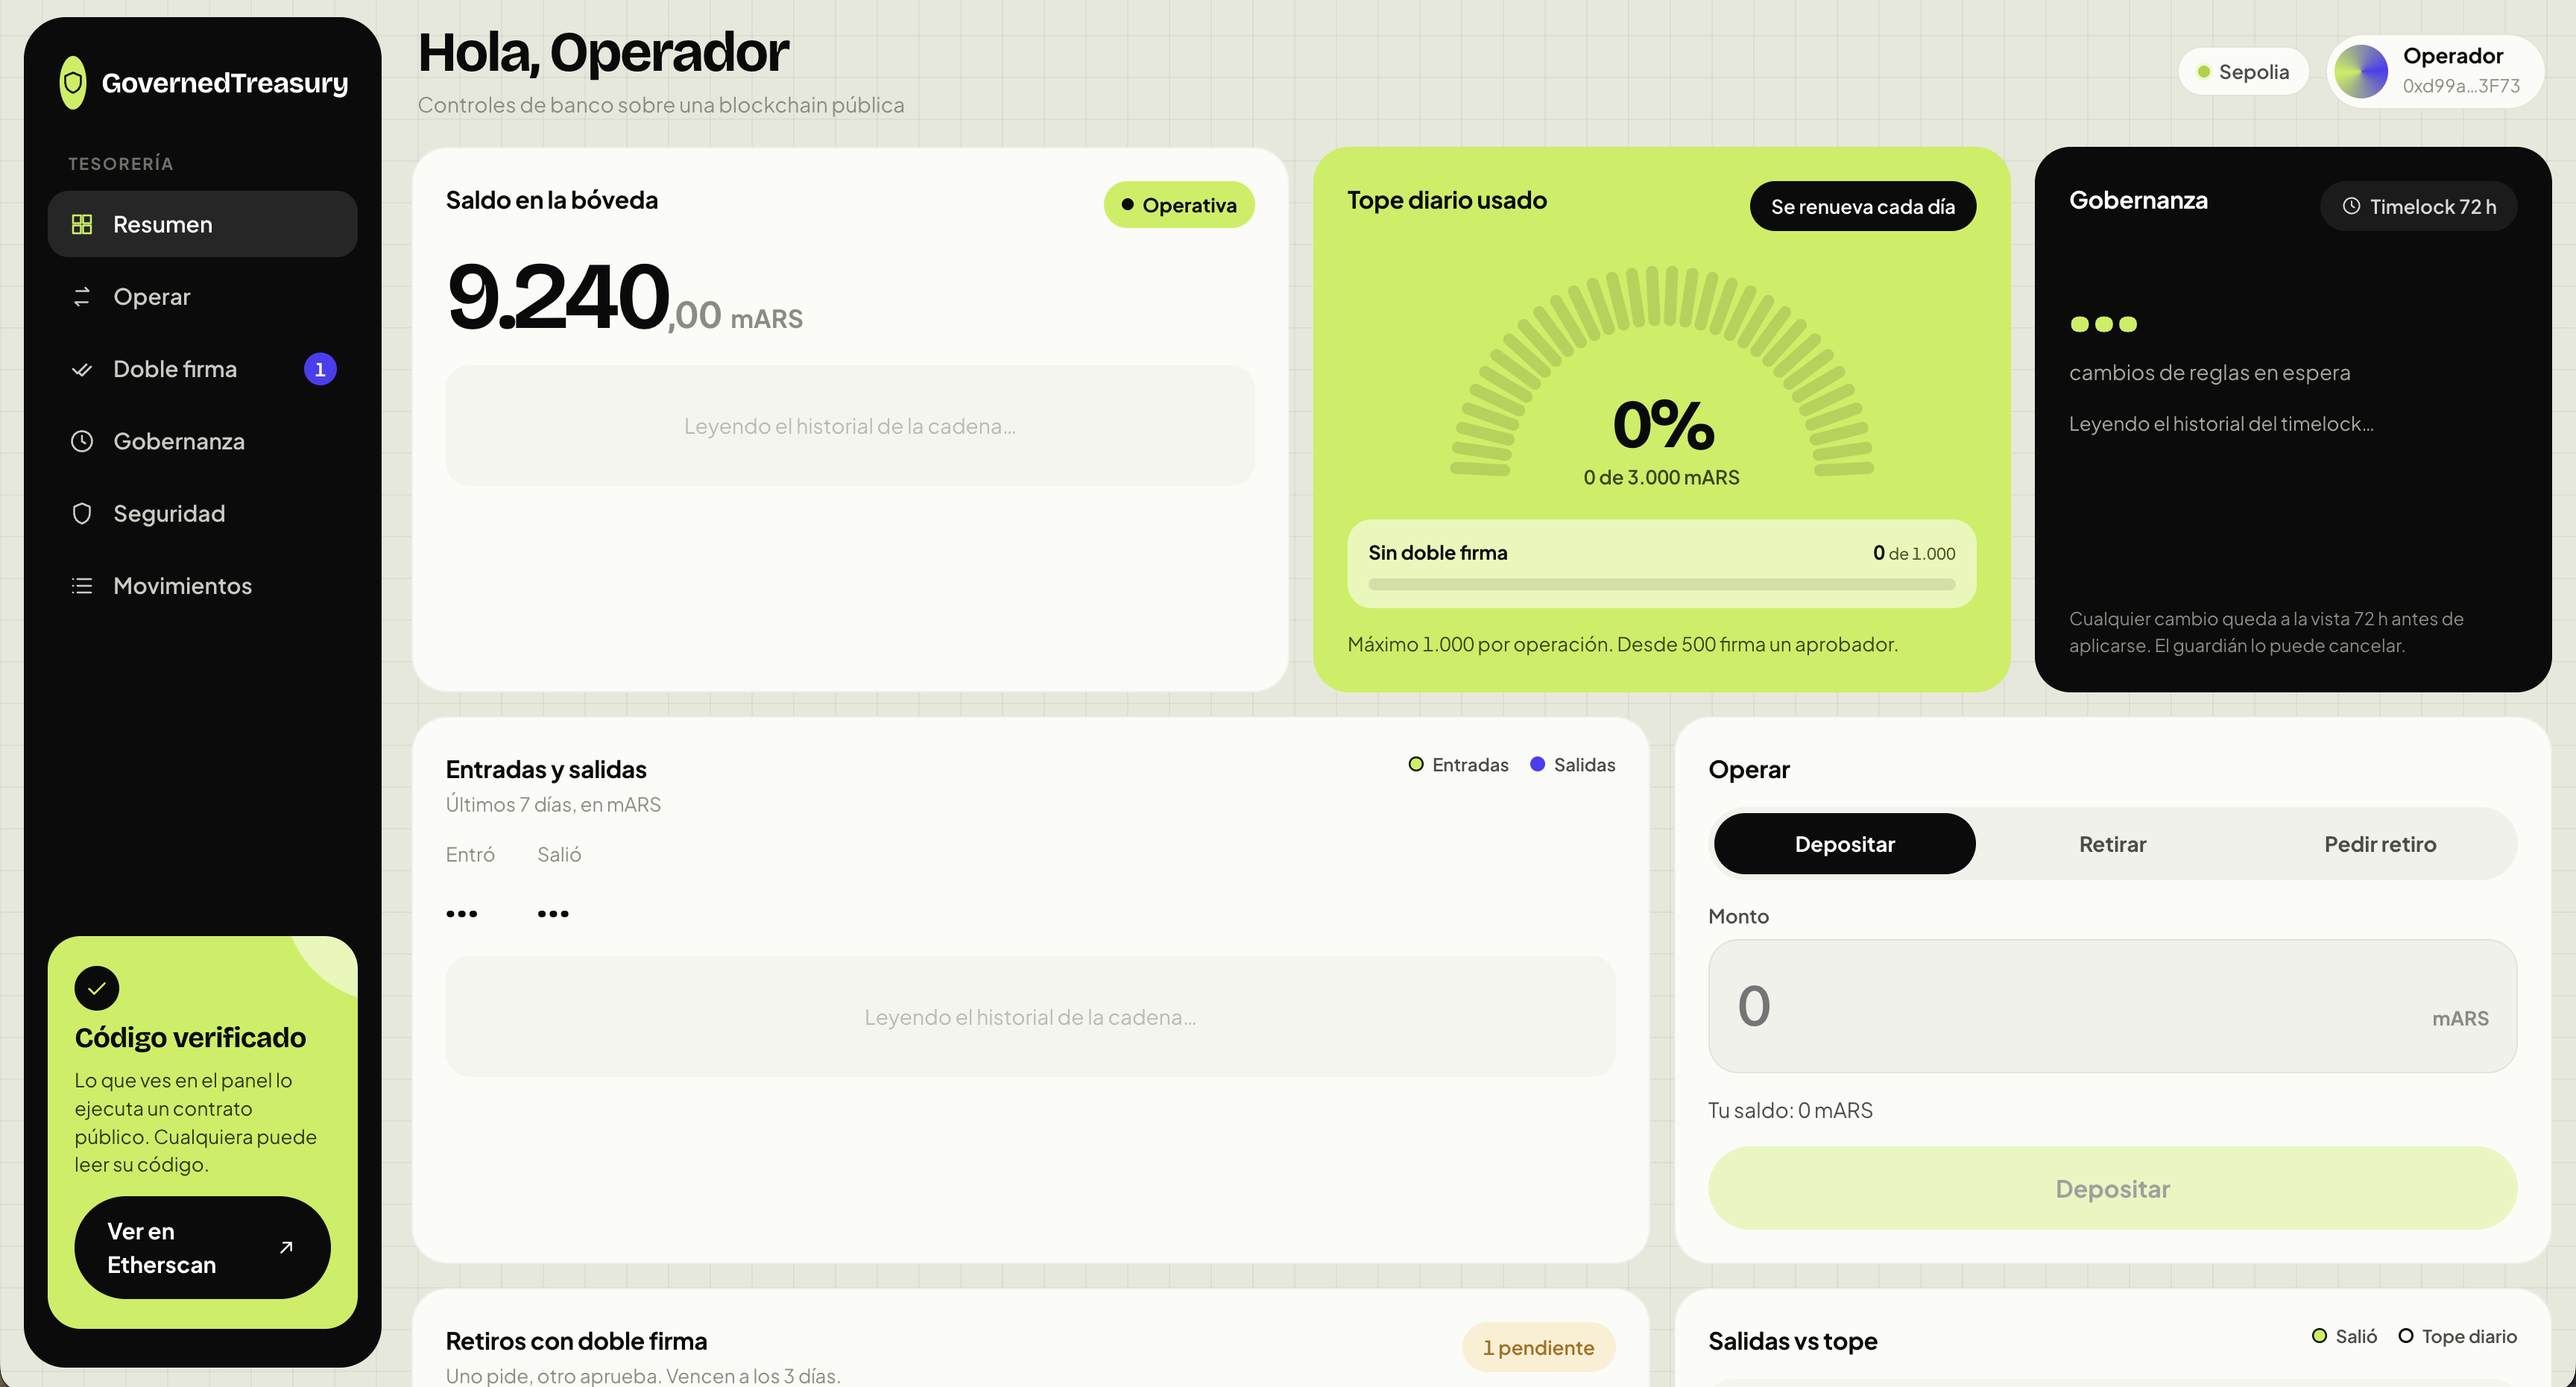
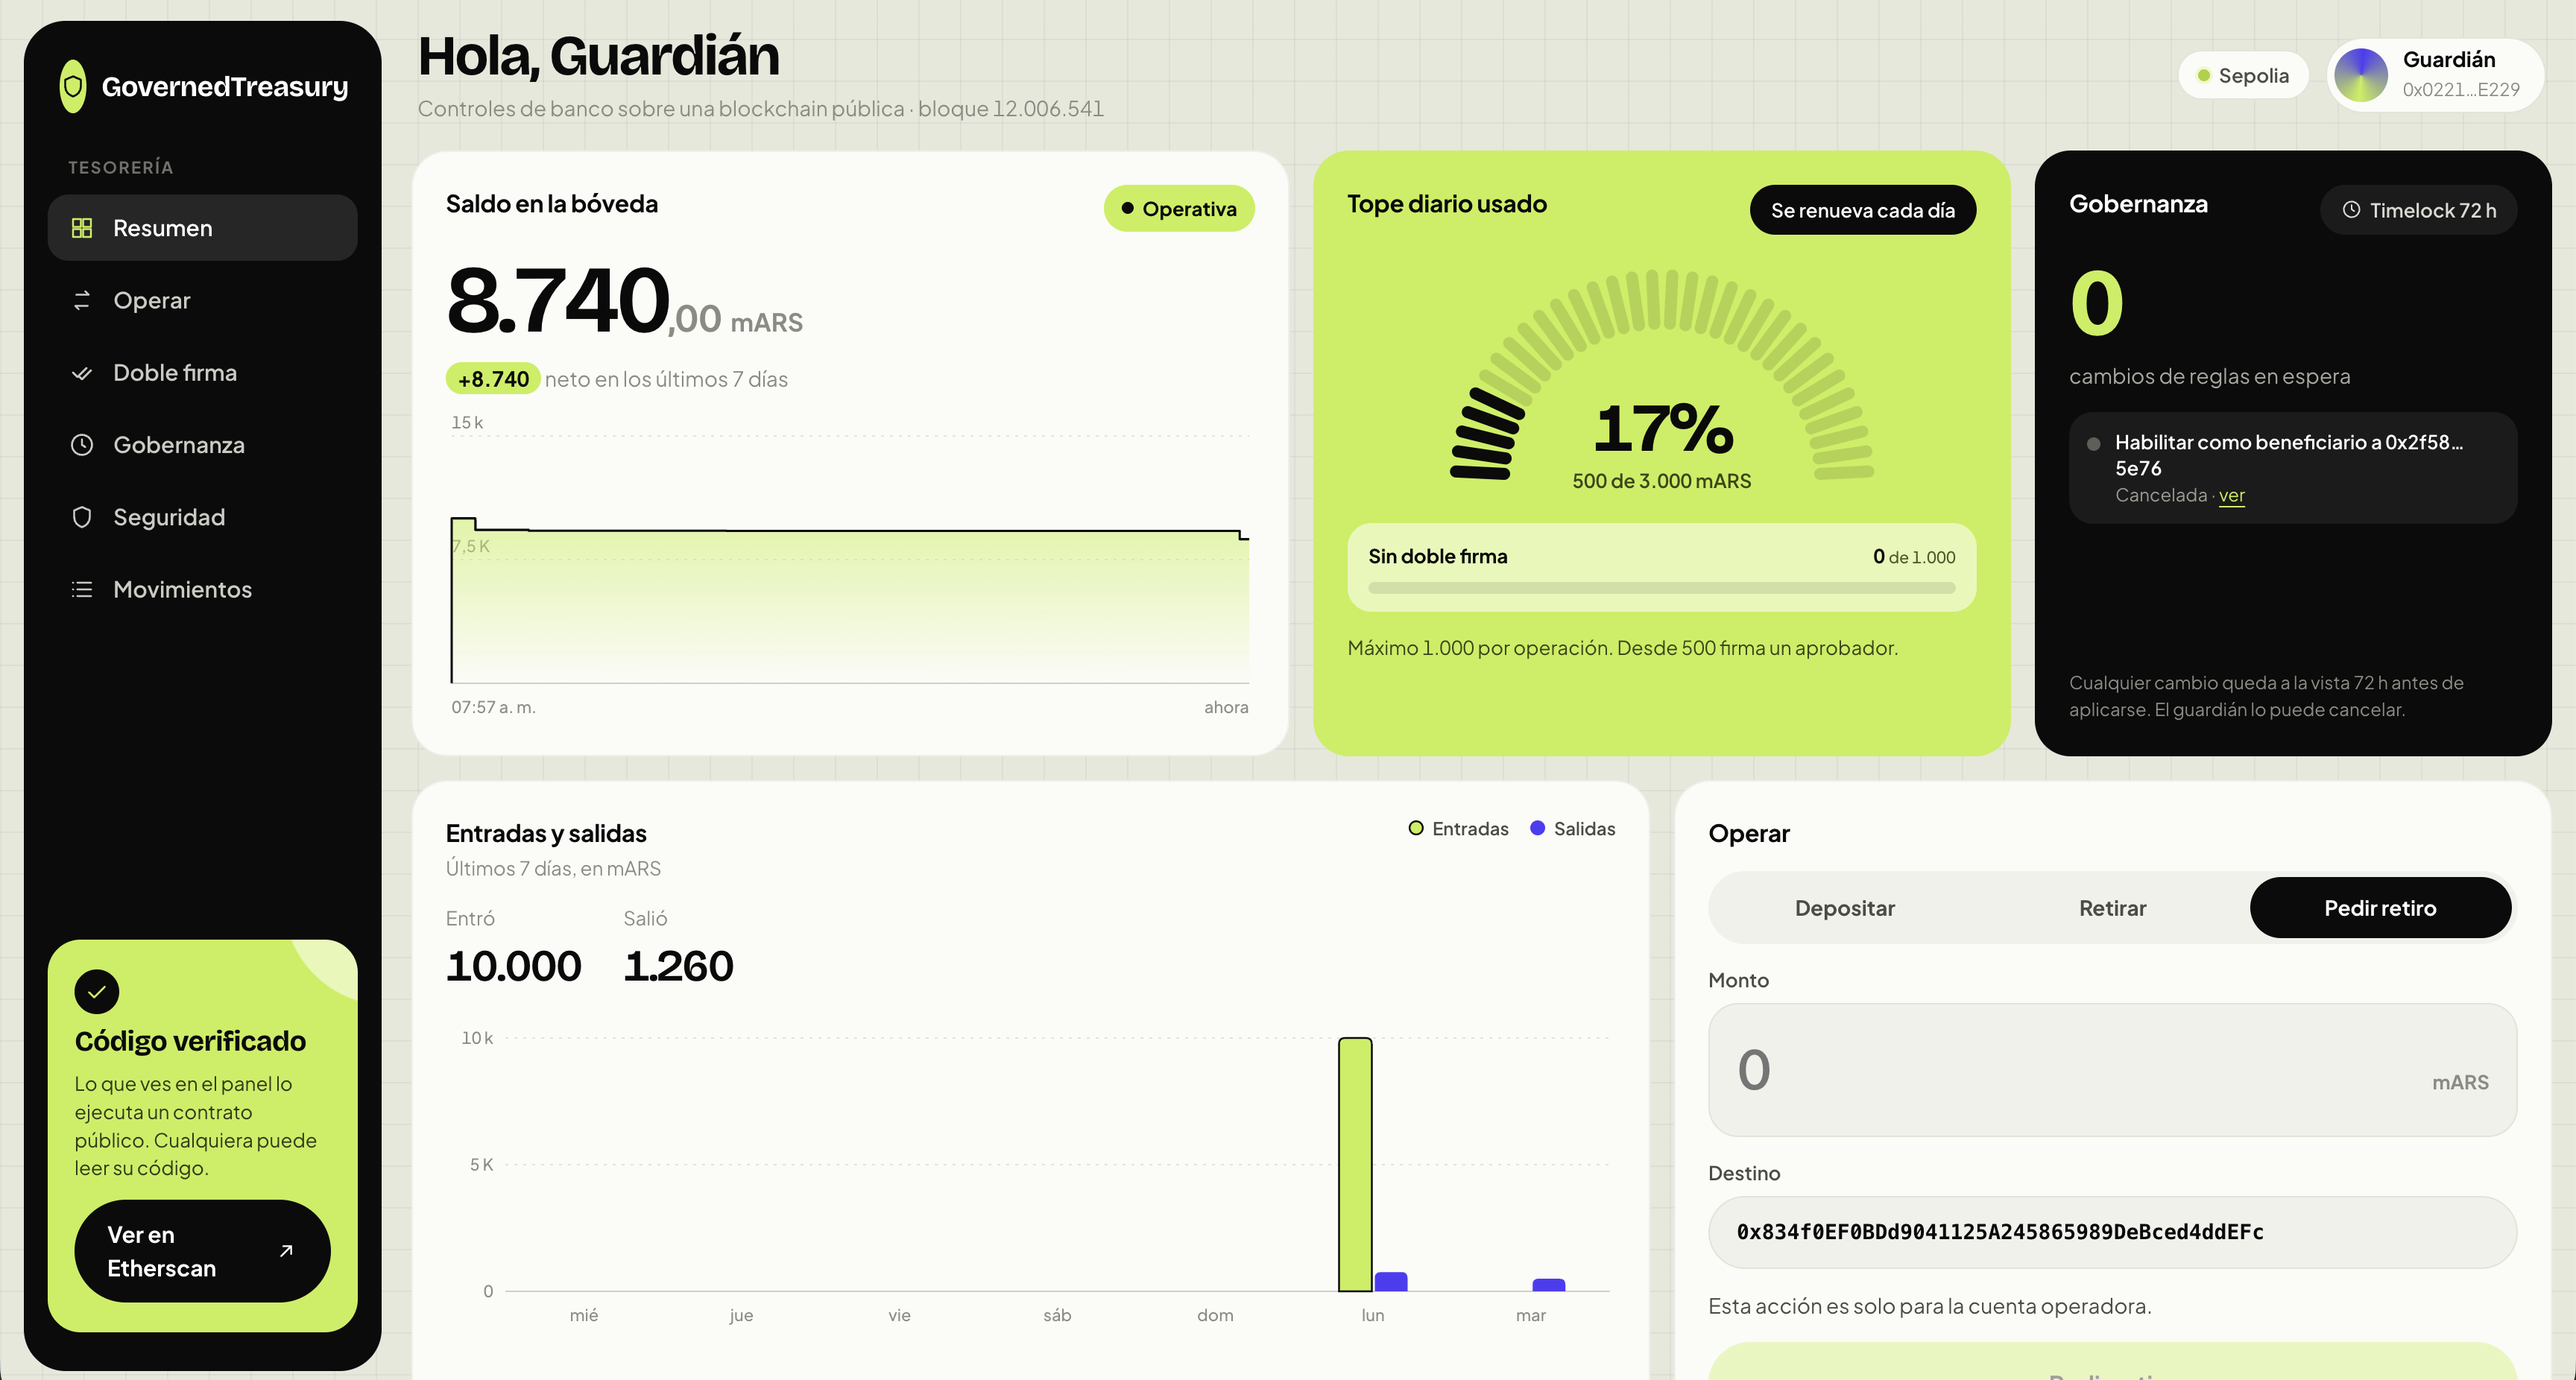
Captura del panel con historial de Sepolia y validación de las specs 001 y 002
- docs/panel.png: captura nueva con el historial cargado (saldo 8.740, igual a balanceOf)
- spec 002: criterio de Sepolia validado; spec 001: red equivocada y modo lectura validados a mano
- README: "Bóveda" con tilde; checklist sin "entrega individual"
- whitepaper: links al repo y al contrato verificado en Etherscan

diff --git a/specs/001-frontend/tasks.md b/specs/001-frontend/tasks.md
@@ -23,8 +23,8 @@ Prueba de punta a punta con Playwright contra una red local de Hardhat y una bil
 
 Estado de validación (revisado el 2026-10-27)
 - [x] T01 a T12 en red local: prueba de punta a punta con Playwright del 2026-10-26, registrada arriba.
-- [x] El panel lee el contrato real en Sepolia: `docs/panel.png` muestra la red Sepolia, el rol Operador detectado (0xd99a…3F73, el operador de `deployments/sepolia.json`) y el saldo de la bóveda (9.240 mARS).
+- [x] El panel lee el contrato real en Sepolia: `docs/panel.png` (captura del 2026-10-27) muestra la red Sepolia, el rol Guardián detectado (0x0221…E229, el guardián de `deployments/sepolia.json`) y el saldo de la bóveda (8.740 mARS, igual a `balanceOf` leído con la RPC pública).
 - [x] Doble firma desde el panel con MetaMask en Sepolia (RF-06, RF-07): el operador pidió 500 (Pedido 2, tx `0x2ea40276…09ae`) y el aprobador, otra cuenta (`0x964B…39Ef`), lo aprobó (tx `0x756e902c…0fcd`). Verificadas con la RPC pública el 2026-10-27: destino la tesorería, método y remitente correctos, estado *success*. Tabla con links en el README, "Operaciones desde el panel".
 - [x] Rechazo por el Guardián desde el panel (RF-07): Pedido 3 (tx `0x2ffc52b4…22e9`) rechazado por `0x0221…E229` (tx `0x26f4a7f0…30fa`), verificadas igual que las anteriores.
-- [x] Botón "Aprobar" oculto en el propio pedido (RF-07) y acciones deshabilitadas sin el rol (RNF-05): validación manual del usuario con MetaMask en Sepolia (2026-10-27). La condición está en `Requests.jsx:49-50` (`canApprove` exige `!mine`) y `Operate.jsx:22,111` (`lacksRole` deshabilita y muestra el motivo). No hay captura: la evidencia es la prueba manual.
-- [ ] Aviso de red equivocada y modo lectura sin billetera en Sepolia. Motivo: no hay captura ni registro de esos dos casos.
+- [x] Botón "Aprobar" oculto en el propio pedido (RF-07) y acciones deshabilitadas sin el rol (RNF-05): validación manual del usuario con MetaMask en Sepolia (2026-10-27). La condición está en `Requests.jsx:49-50` (`canApprove` exige `!mine`) y `Operate.jsx:22,111` (`lacksRole` deshabilita y muestra el motivo). La captura `docs/panel.png` muestra el caso de la acción sin rol: con la cuenta del guardián en "Pedir retiro" se lee "Esta acción es solo para la cuenta operadora.".
+- [x] Aviso de red equivocada (RNF-02) y modo lectura sin billetera en Sepolia: validación manual del usuario con MetaMask (2026-10-27). Con MetaMask en otra red apareció el banner; desconectado, el panel muestra todo sin poder operar. No hay captura: la evidencia es la prueba manual.

diff --git a/specs/002-panel/spec.md b/specs/002-panel/spec.md
@@ -28,4 +28,4 @@ Extiende `001-frontend`. Misma constitución: el frontend no modifica los contra
 ## Validación
 
 - [ ] Local (Hardhat): panel completo con actividad de varios días. Motivo: no hay captura ni registro de una corrida local con actividad de varios días (ver `retro.md`).
-- [ ] Sepolia: los gráficos muestran los movimientos reales del contrato verificado. Motivo: en `docs/panel.png` los gráficos de movimientos todavía dicen "Leyendo el historial de la cadena…"; falta una captura con el historial cargado.
+- [x] Sepolia: los gráficos muestran los movimientos reales del contrato verificado. `docs/panel.png` (captura nueva del 2026-10-27, bloque 12.006.541, cuenta del guardián) muestra el saldo en el tiempo, entradas y salidas de los últimos 7 días (entró 10.000, salió 1.260), el tope diario usado (500 de 3.000) y la operación cancelada del timelock. Los números cierran con la cadena: `balanceOf` de la tesorería dio 8.740 con la RPC pública el 2026-10-27, y las salidas son 100 + 600 de `scripts/interact.js` más 50 + 10 + 500 desde el panel.

diff --git a/docs/whitepaper.md b/docs/whitepaper.md
@@ -2,6 +2,8 @@
 
 **Autor:** Jerónimo Núñez · Proyecto final del Ethereum Developer Pack (ETH Kipu · Talento Tech) · Entrega individual · Octubre de 2026
 
+**Repositorio:** [github.com/jeronimoenunez/governed-treasury](https://github.com/jeronimoenunez/governed-treasury) · **Contrato verificado:** [GovernedTreasury en Etherscan (Sepolia)](https://sepolia.etherscan.io/address/0x027EB81f2cb5686707fF0dF75b9013661F058aD0#code)
+
 ## 1. El problema
 
 Toda organización que maneja dinero termina armando las mismas reglas. Quien pide un pago no es quien lo aprueba. Los montos grandes necesitan una segunda firma. Hay un máximo por operación y otro por día. Solo se le paga a proveedores que ya están dados de alta. Y si alguien quiere cambiar esas reglas, el cambio no puede aplicarse de un minuto para el otro. Los bancos lo llaman control interno, y existe porque el riesgo más común no es un ladrón de afuera: es una persona de adentro que se equivoca, o una cuenta que alguien roba.

diff --git a/docs/checklist-entrega.md b/docs/checklist-entrega.md
@@ -1,6 +1,6 @@
 # Checklist de entrega — GovernedTreasury
 
-Autor: Jerónimo Núñez · entrega individual · revisado el 2026-10-27.
+Autor: Jerónimo Núñez · revisado el 2026-10-27.
 
 Leyenda: ✅ cumple, con evidencia · ⚠ cumple en parte o con una salvedad explicada · ❌ no cumple · ⏳ pendiente (lo hace el autor).
 

diff --git a/README.md b/README.md
@@ -1,4 +1,4 @@
-# Governed Treasury (Boveda Gobernada)
+# Governed Treasury (Bóveda Gobernada)
 
 **Proyecto final del Ethereum Developer Pack (ETH Kipu · Talento Tech). Autor: Jerónimo Núñez.**
 
